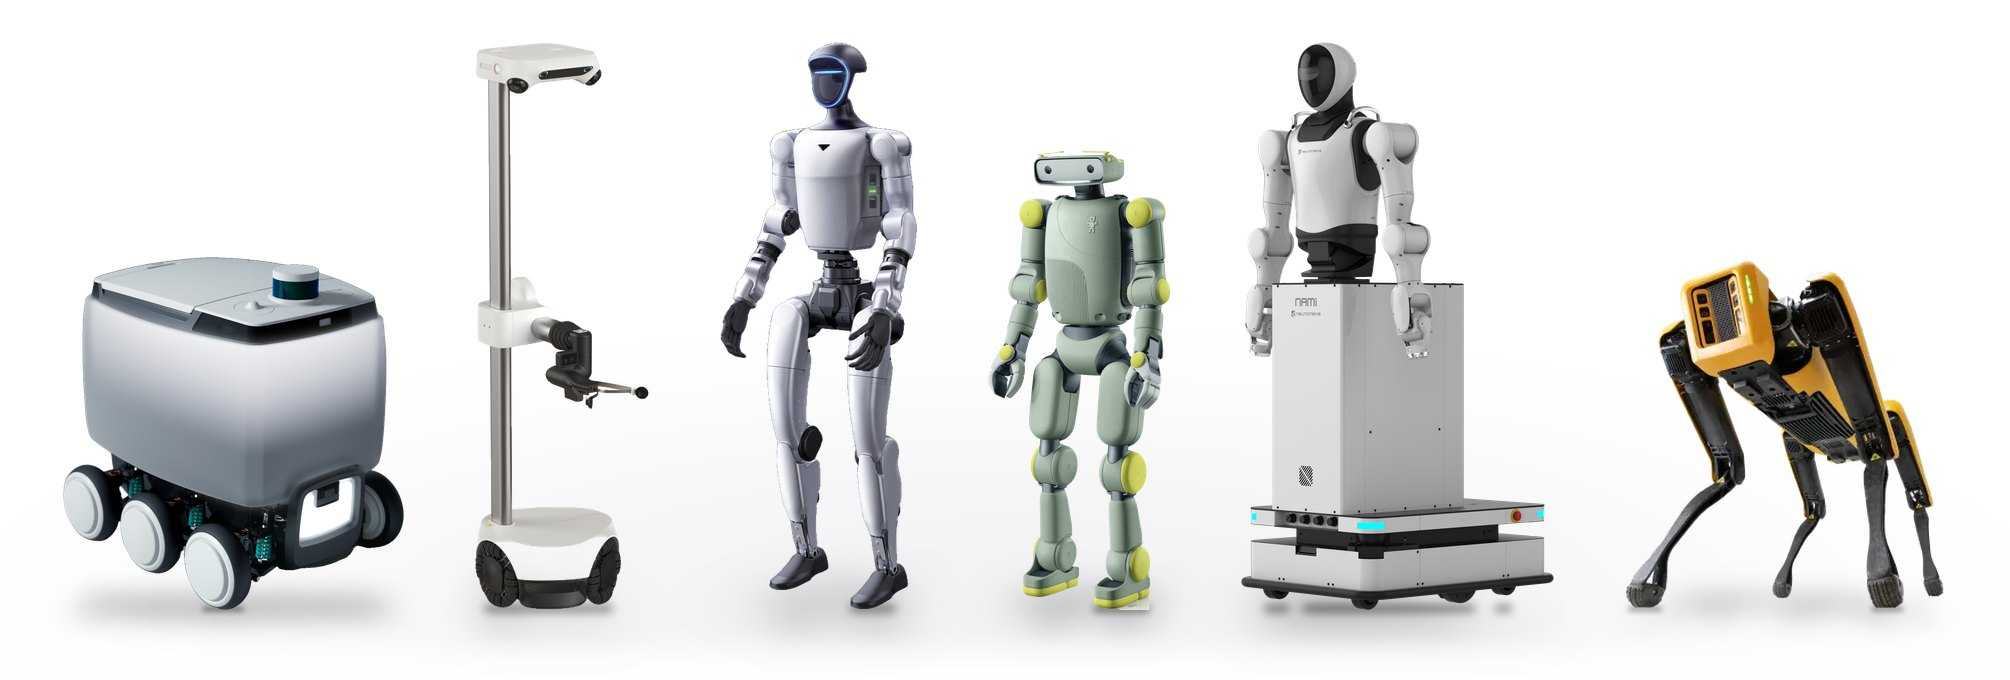
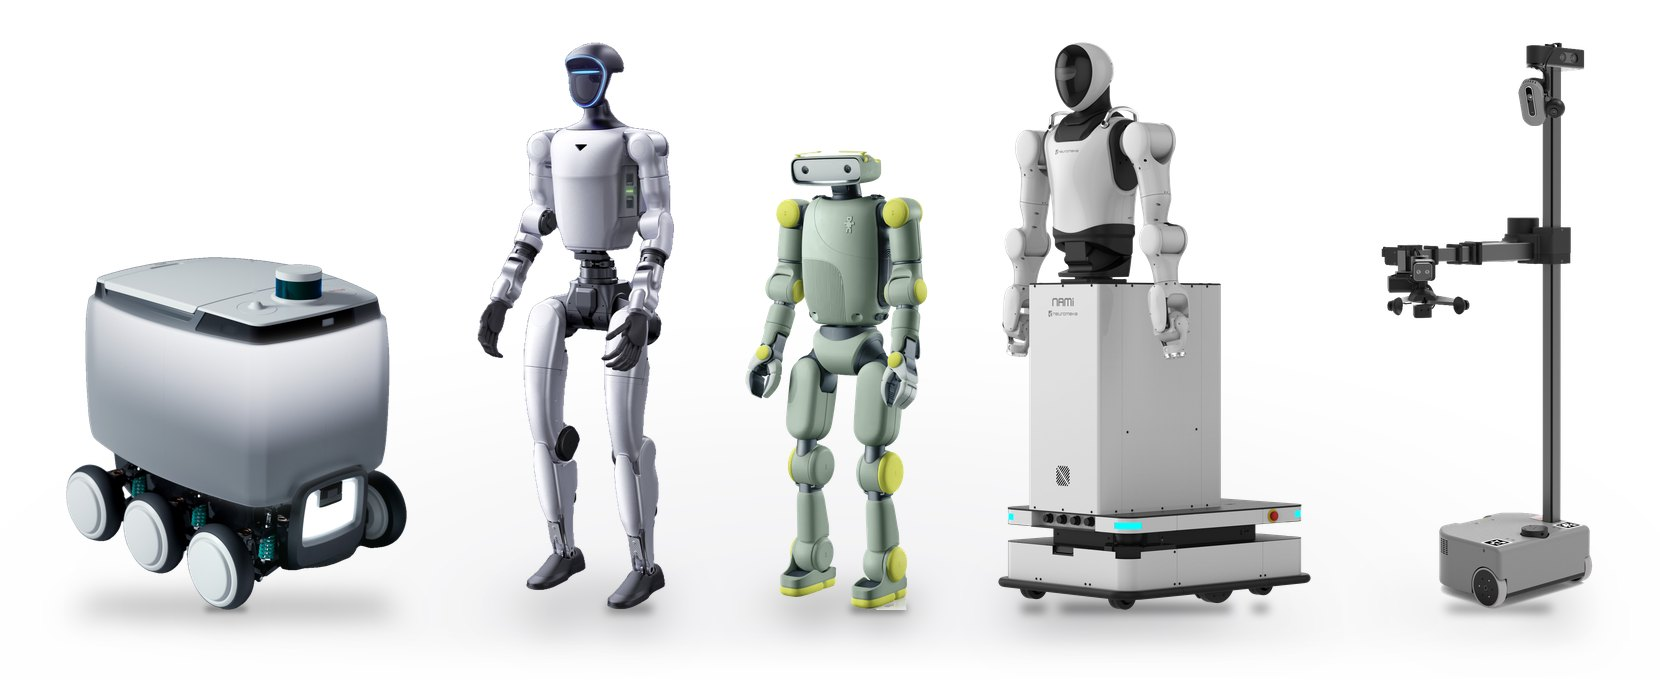
Take Spot out of the lineup and show Stretch 3 instead of Stretch 4
Back to five in the symmetric row: Dilly, G1, Sprout, NAMI, Stretch 3.
Stretch 3 comes from Hello Robot's Keyshot render, with its floor glow
cut away, and sits at the right end with its arm reaching in. The picture
is capped at 585 px so the robots keep their size on the page, and the
caption names Stretch 3.

Changed region(s): [[0.0307, 0.0618, 0.8295, 0.9265], [0.7988, 0.0618, 0.9831, 0.9265]]

diff --git a/index.html b/index.html
@@ -8,7 +8,7 @@
     <meta name="author" content="Chan Lee">
     <meta name="viewport" content="width=device-width, initial-scale=1">
     <link rel="shortcut icon" href="images/favicon/favicon.ico?v=3" type="image/x-icon">
-    <link rel="stylesheet" type="text/css" href="stylesheet.css?v=13">
+    <link rel="stylesheet" type="text/css" href="stylesheet.css?v=14">
   </head>
 
   <body>
@@ -59,9 +59,9 @@
           <table style="width:100%;border:0px;border-spacing:0px;border-collapse:separate;margin-right:auto;margin-left:auto;"><tbody>
             <tr>
               <td class="lineup-cell" style="padding:0px 16px 8px;width:100%;vertical-align:middle">
-                <img class="lineup-img" src="images/robot-lineup.jpg?v=7" width="2010" height="680"
-                     alt="Robots I've worked with, in a row: Baemin's Dilly Drive, Hello Robot Stretch 4, Unitree G1, Fauna Sprout, Neuromeka NAMI and Boston Dynamics Spot">
-                <p class="lineup-caption">Robots I've worked with: Baemin&nbsp;Dilly&nbsp;Drive&nbsp;&middot; Hello&nbsp;Robot&nbsp;Stretch&nbsp;4&nbsp;&middot; Unitree&nbsp;G1&nbsp;&middot; Fauna&nbsp;Sprout&nbsp;&middot; Neuromeka&nbsp;NAMI&nbsp;&middot; Boston&nbsp;Dynamics&nbsp;Spot</p>
+                <img class="lineup-img" src="images/robot-lineup.jpg?v=8" width="1660" height="680"
+                     alt="Robots I've worked with, in a row: Baemin's Dilly Drive, Unitree G1, Fauna Sprout, Neuromeka NAMI and Hello Robot Stretch 3">
+                <p class="lineup-caption">Robots I've worked with: Baemin&nbsp;Dilly&nbsp;Drive&nbsp;&middot; Unitree&nbsp;G1&nbsp;&middot; Fauna&nbsp;Sprout&nbsp;&middot; Neuromeka&nbsp;NAMI&nbsp;&middot; Hello&nbsp;Robot&nbsp;Stretch&nbsp;3</p>
               </td>
             </tr>
           </tbody></table>

diff --git a/stylesheet.css b/stylesheet.css
@@ -371,7 +371,7 @@ html {
 .lineup-img {
   display: block;
   width: 100%;
-  max-width: 710px;
+  max-width: 585px;
   height: auto;
   margin: 0 auto;
 }
